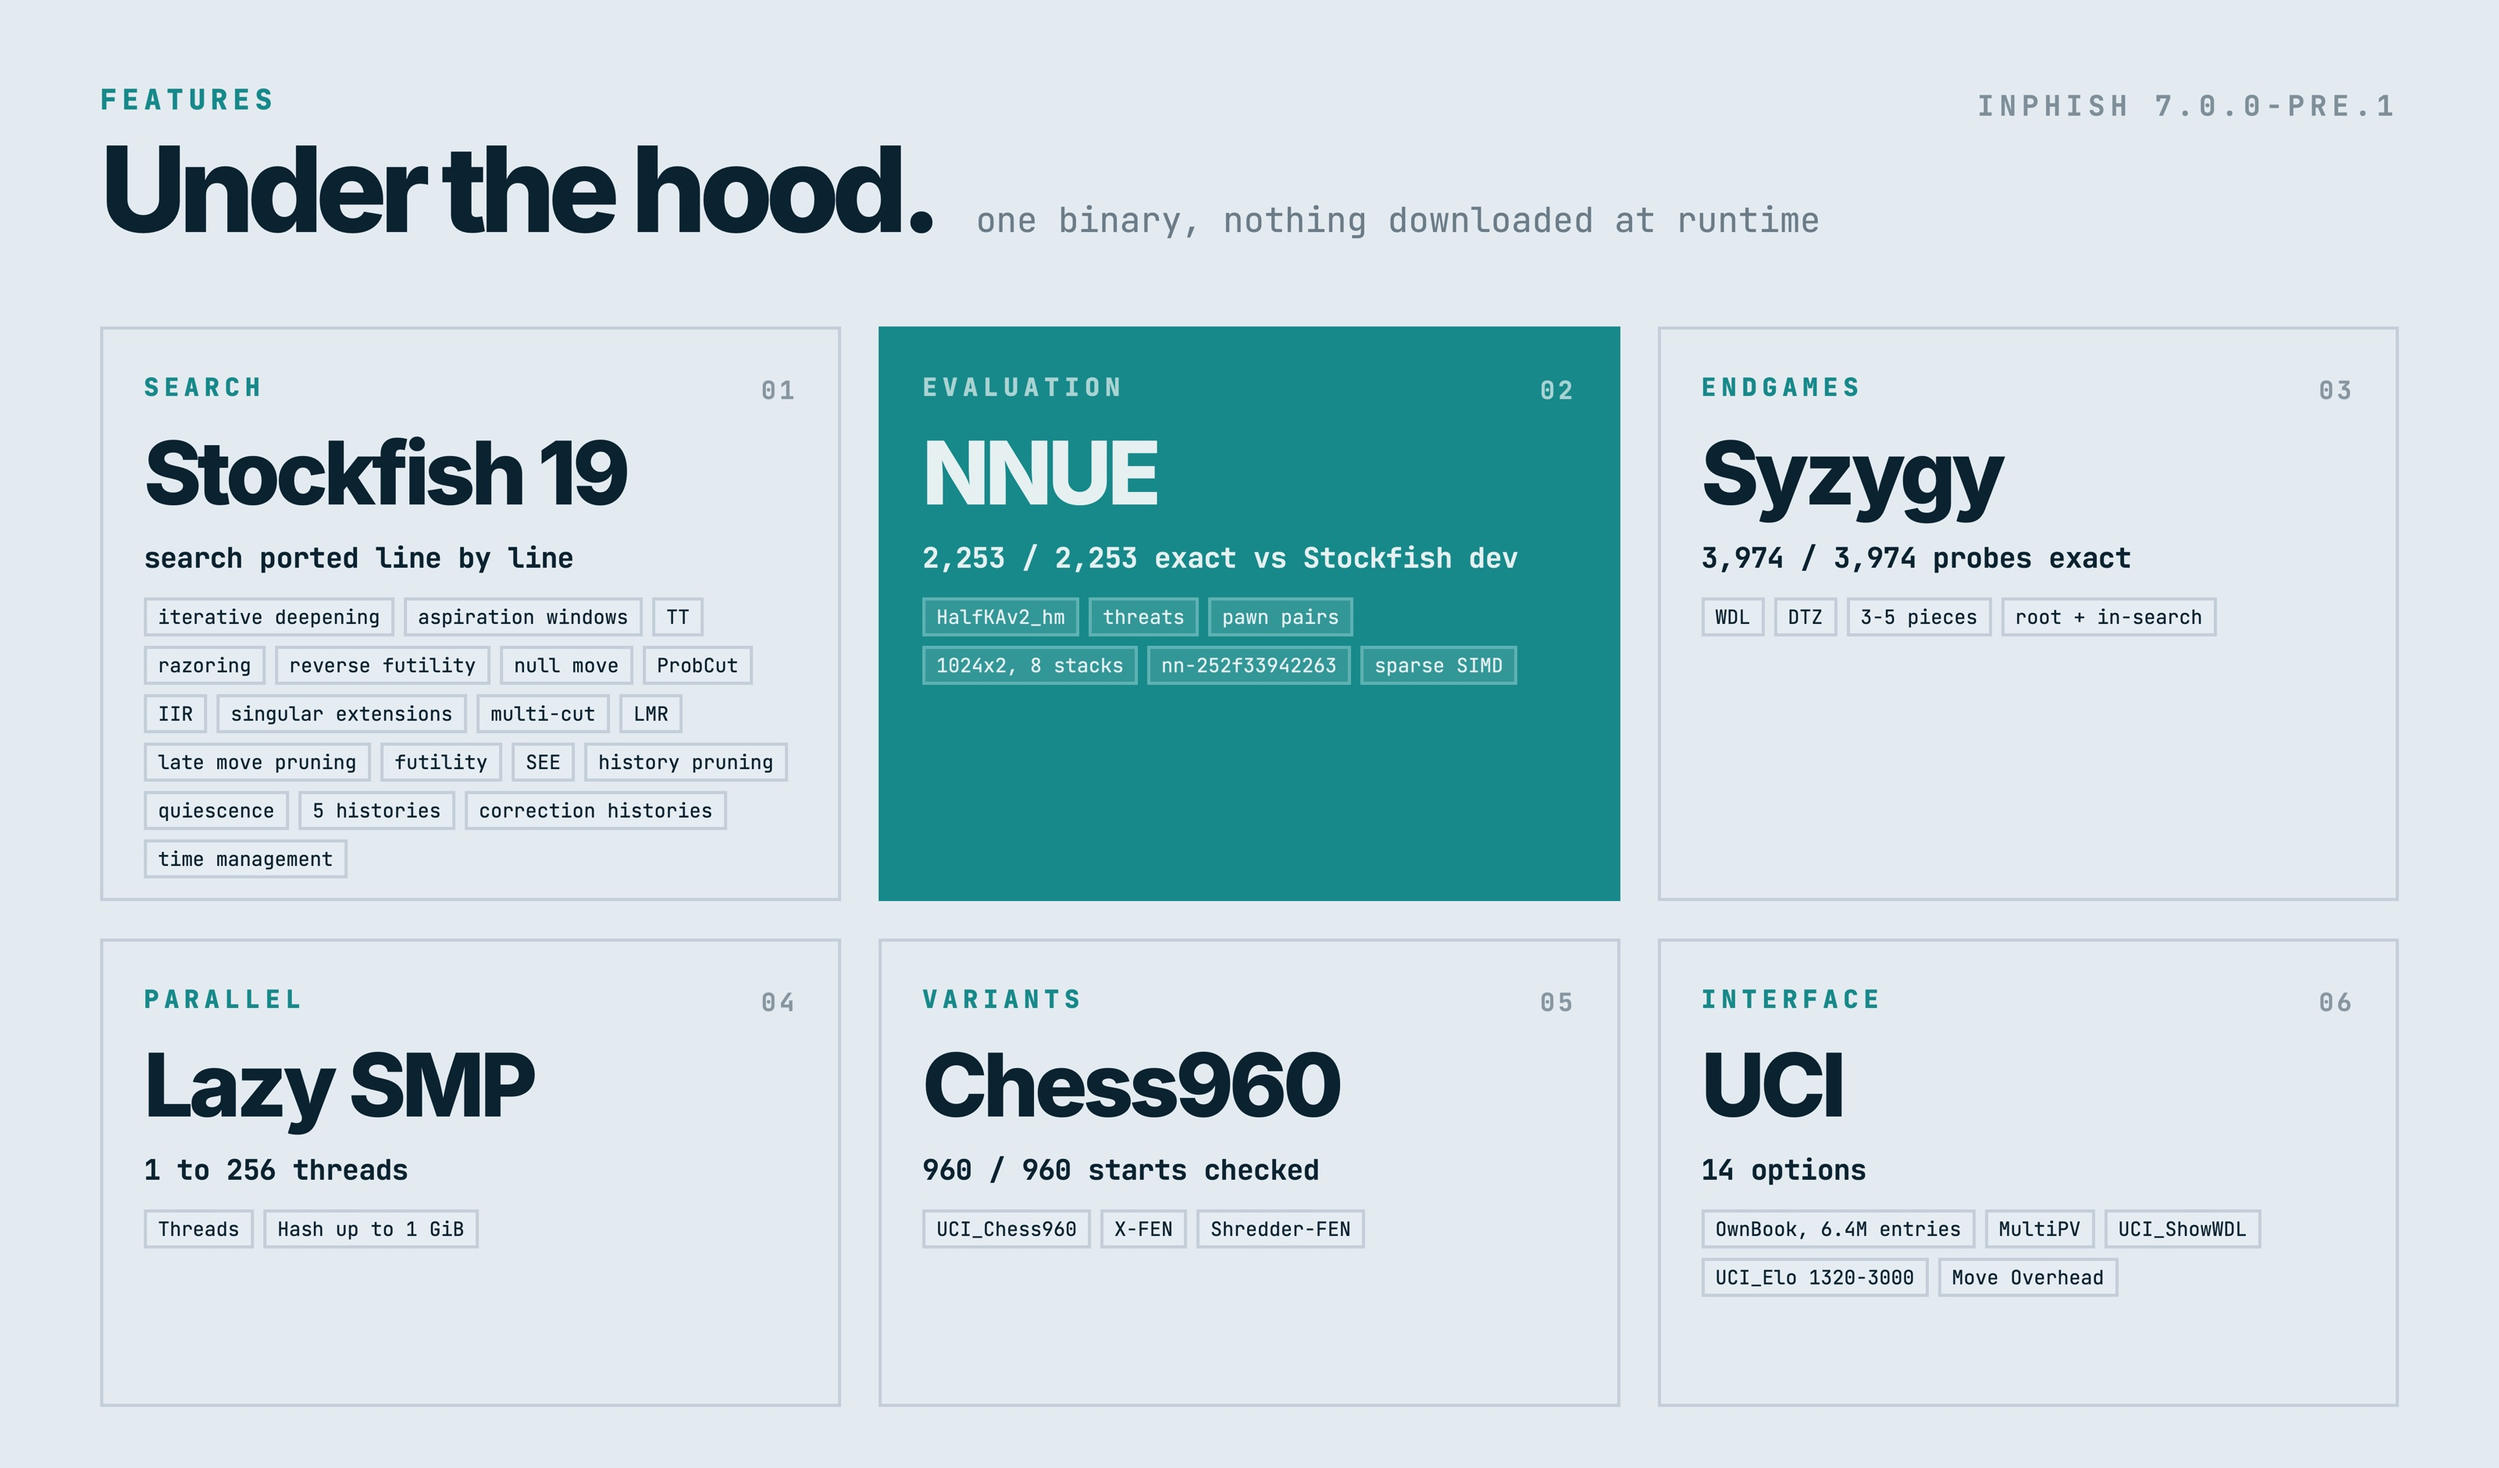
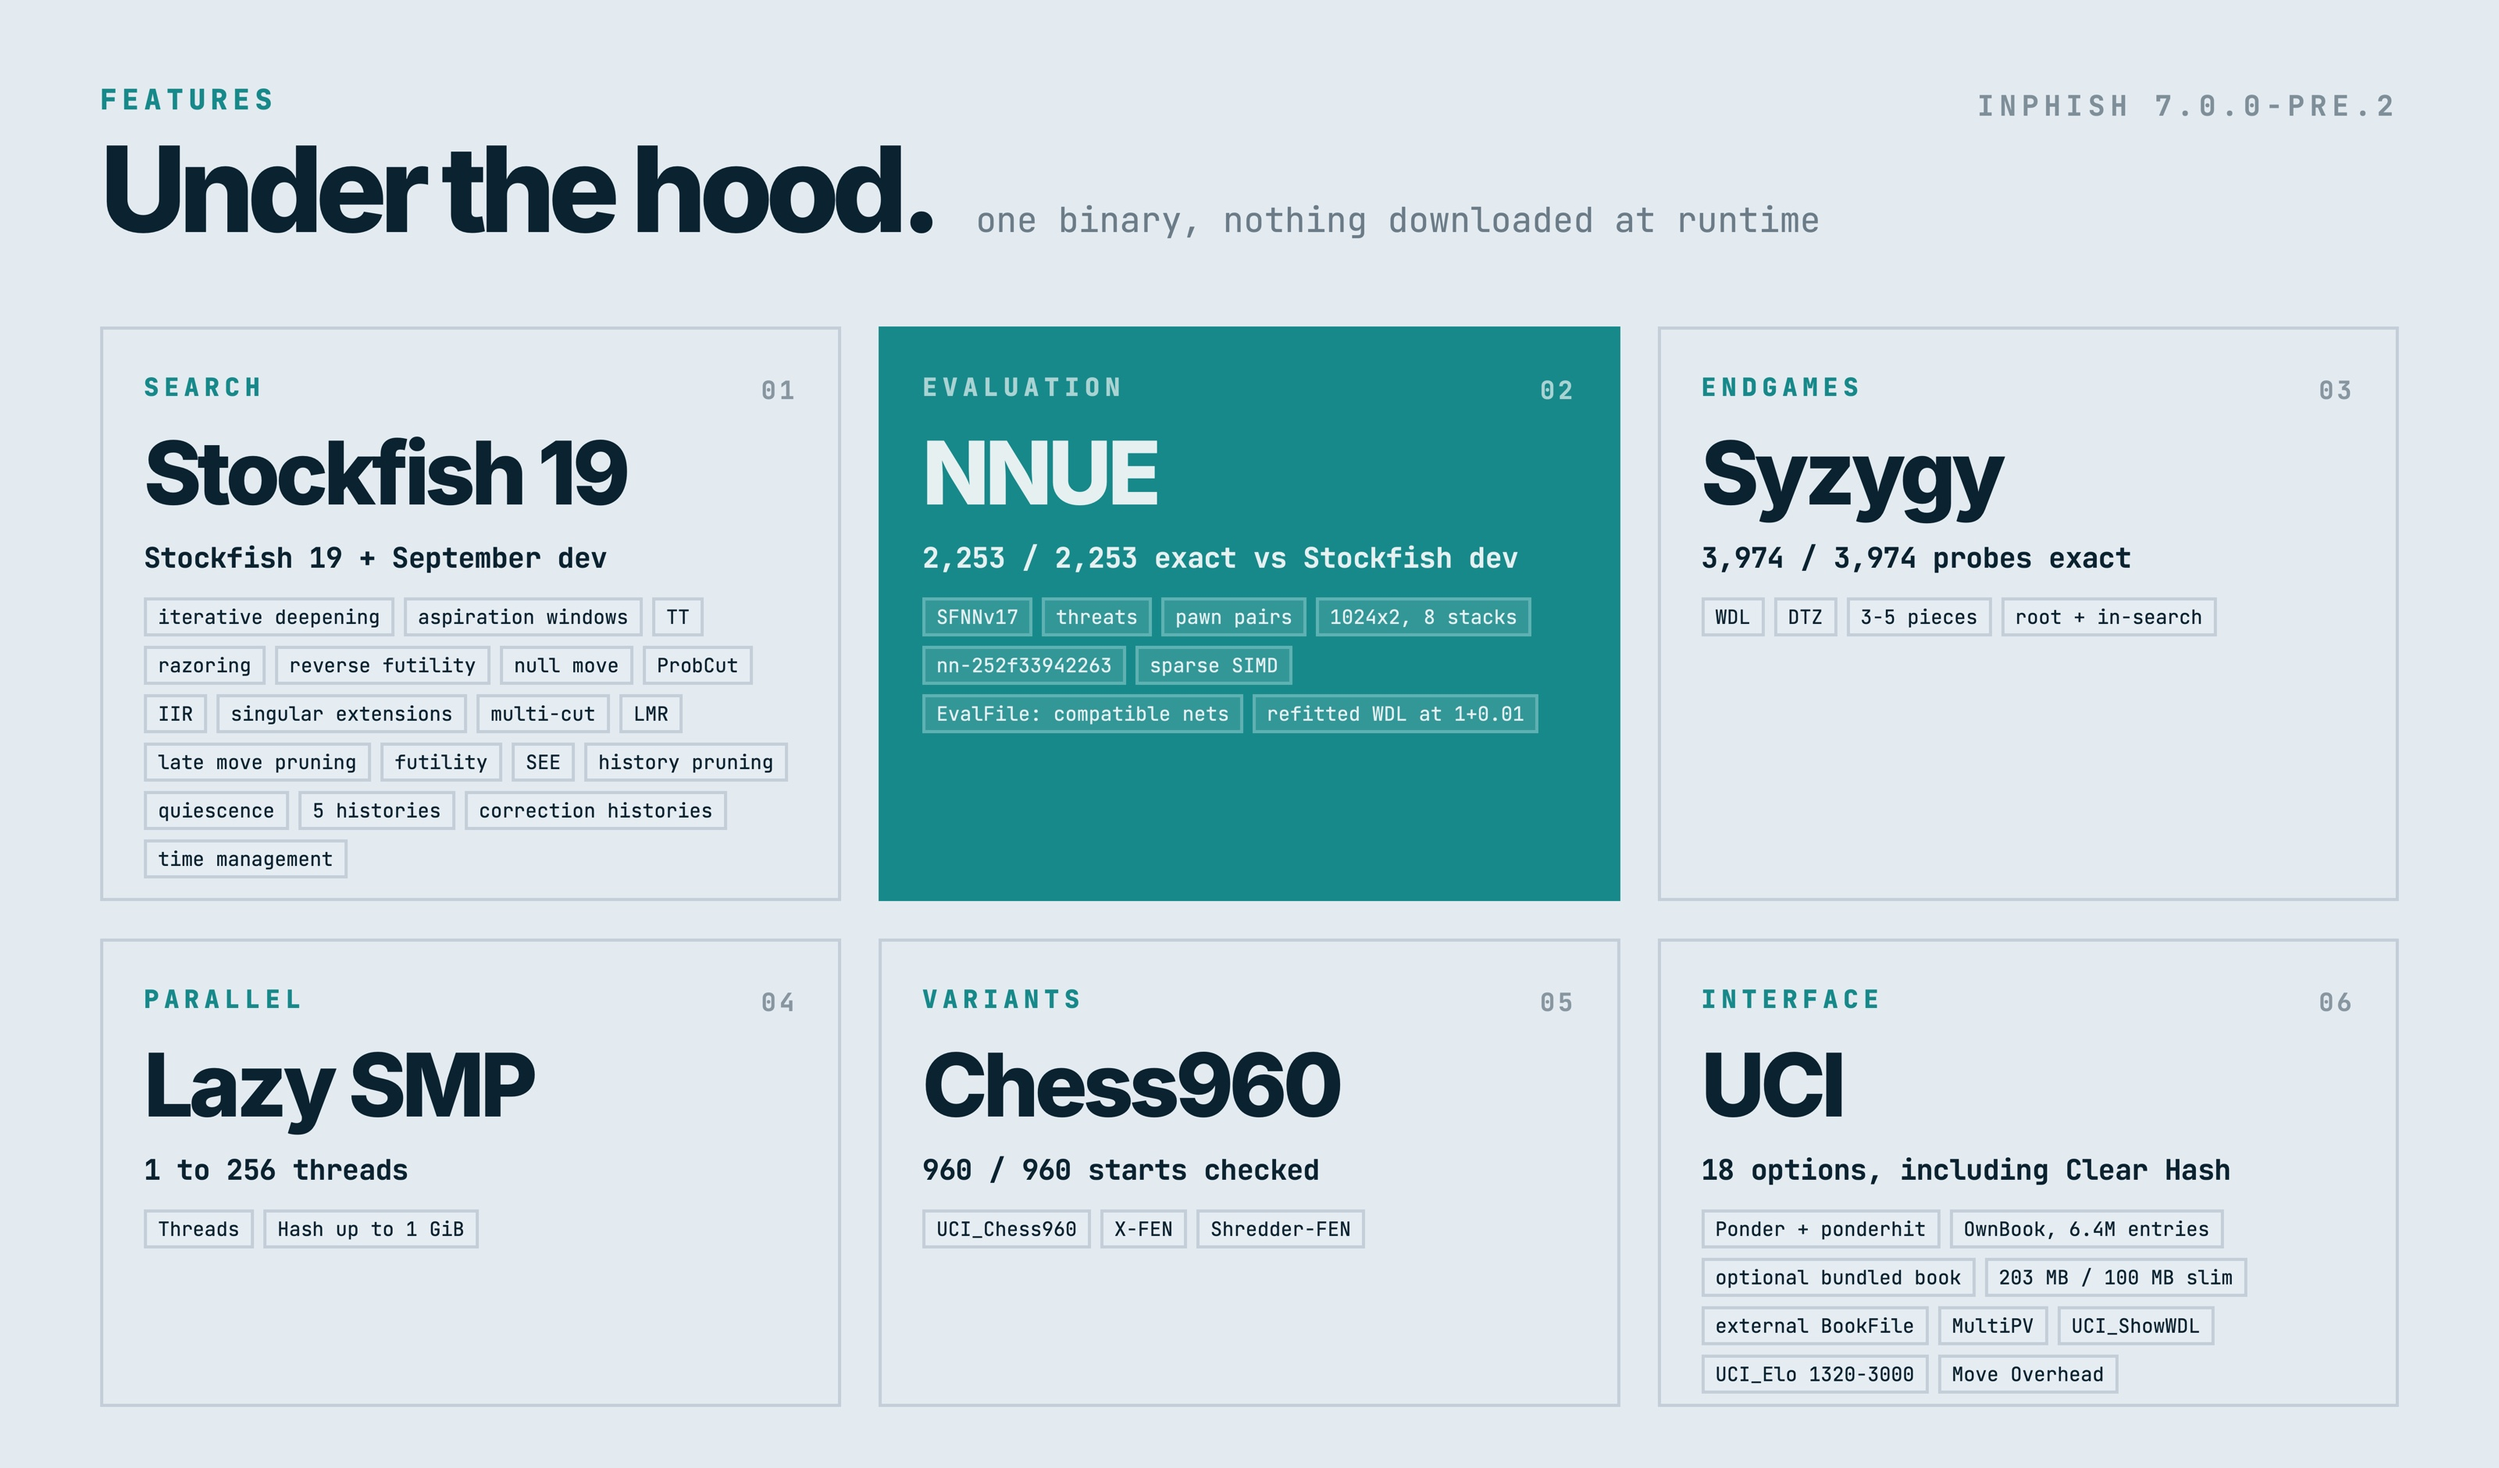
Update the pre.2 figures in the collapsed release section

diff --git a/README.md b/README.md
@@ -68,7 +68,7 @@ At 1+0.01 MaiEngine and Mai V2 lose many games on time, so their results say lit
 <details>
 <summary>Pre-release: 7.0.0-pre.2 candidate</summary>
 
-**7.0.0-pre.2 is prepared locally, not yet tagged or published.** It builds on pre.1's SFNNv17 network, `nn-252f33942263`, with the same default search and bench signature, **1525540**.
+**7.0.0-pre.2 is prepared on `main`, not yet tagged or published.** It builds on pre.1's SFNNv17 network, `nn-252f33942263`, with the same default search and bench signature, **1525540**.
 
 - `Ponder` enables predicted replies for GUIs that let the engine think during the opponent's turn. Completed searches, including terminal positions, wait for `ponderhit` or `stop`.
 - `EvalFile` loads external networks with the same SFNNv17 architecture. Empty or `<empty>` restores the bundled network; a failed load keeps the previous network. Running and queued searches retain their original weights and search tables.
@@ -85,11 +85,13 @@ Revision `f0d6a93` scored **23/40 against pre.1: 10 wins, 4 losses and 26 draws*
 
 An accumulator prefetch experiment was removed: four alternating speed trials at Hash 64, one thread and ten seconds on each of two positions averaged 844,070 nodes per second without it and 842,560 with it, with no repeatable gain.
 
+![Match and WDL validation results of the 7.0.0-pre.2 candidate](docs/images/pre/results.jpg)
+
+![Features of 7.0.0-pre.2](docs/images/pre/features.jpg)
+
 [inphish v7.0.0-pre.1](https://github.com/imInph/inphish/releases/tag/v7.0.0-pre.1) is a test build with the network of Stockfish's development build, `nn-252f33942263`, which drops the piece-square output; inphish matches that build exactly on 2,253 positions. It may change before Stockfish's next release. The search is 6.2.0's. It scored 21 of 40 against 6.2.0; against Stockfish 19 at full strength 6 of 20, then 16.5 of 40 in a second run, 22.5 of 60 in all.
 
-![Match results of 7.0.0-pre.1](docs/images/pre/results.jpg)
-
-![Features of 7.0.0-pre.1](docs/images/pre/features.jpg)
+![Original match results of 7.0.0-pre.1, before its Stockfish rerun](docs/images/pre/results-pre1.jpg)
 
 </details>
 
